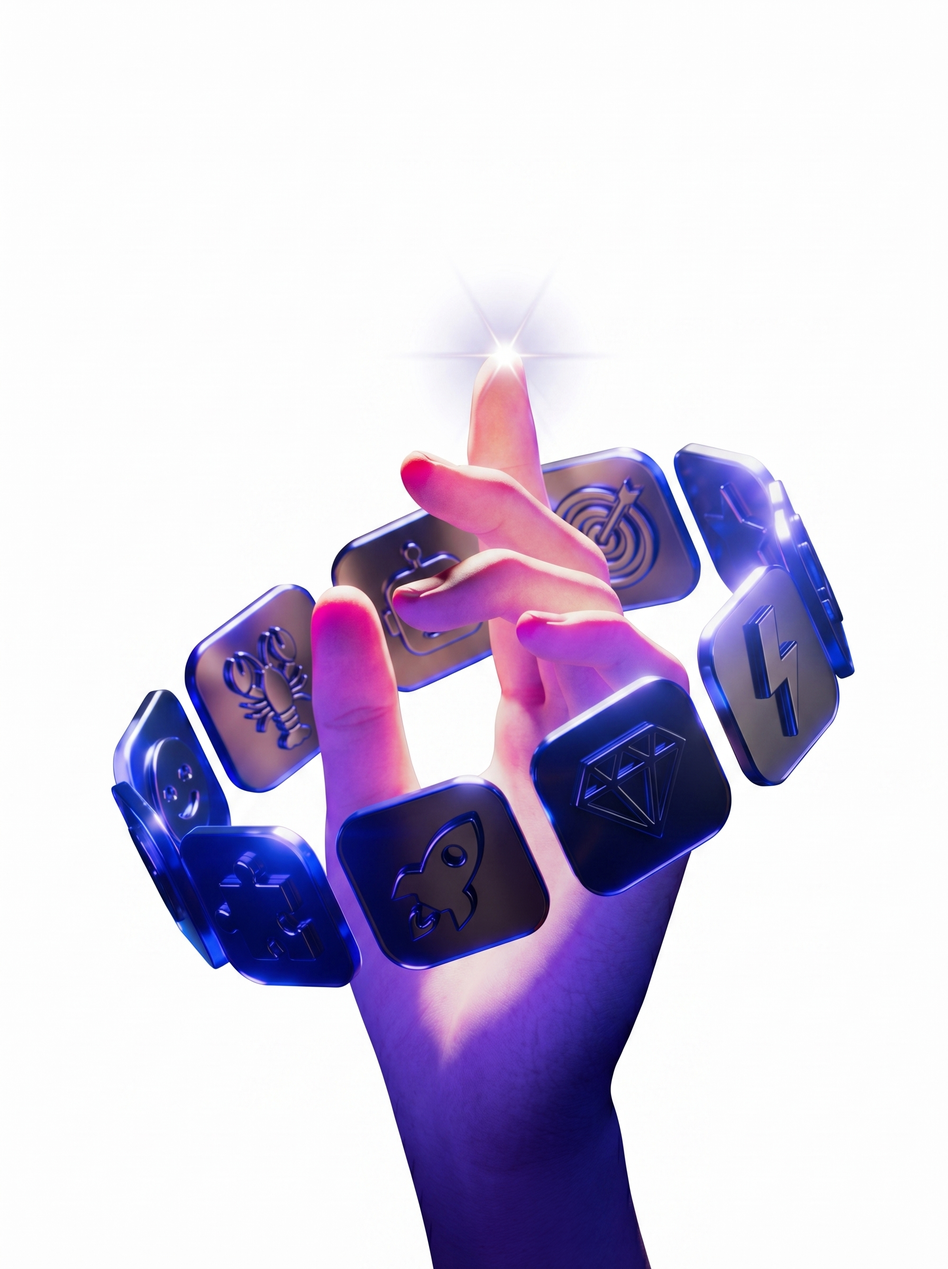
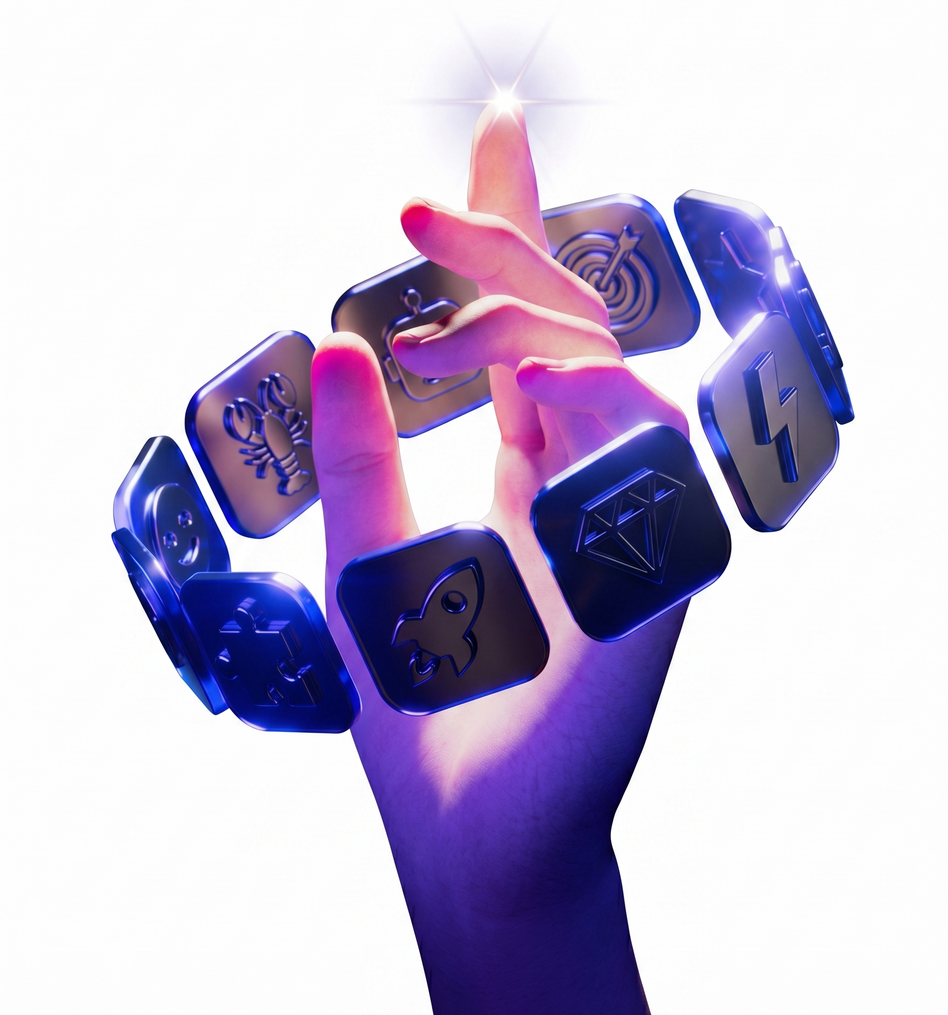
fix: crop 22% whitespace from hero image top + items-start alignment

diff --git a/src/modules/ecosystem/index.tsx b/src/modules/ecosystem/index.tsx
@@ -115,7 +115,7 @@ export default function EcosystemModule() {
           </div>
 
           {/* Right column - hero visual */}
-          <div className="flex-1 max-w-[640px] mt-12 lg:mt-0 relative flex items-end justify-center">
+          <div className="flex-1 max-w-[640px] mt-12 lg:mt-0 relative flex items-start justify-center">
             <img
               src="/act3/hero_visual.png"
               alt="Agent Trading Arena"
